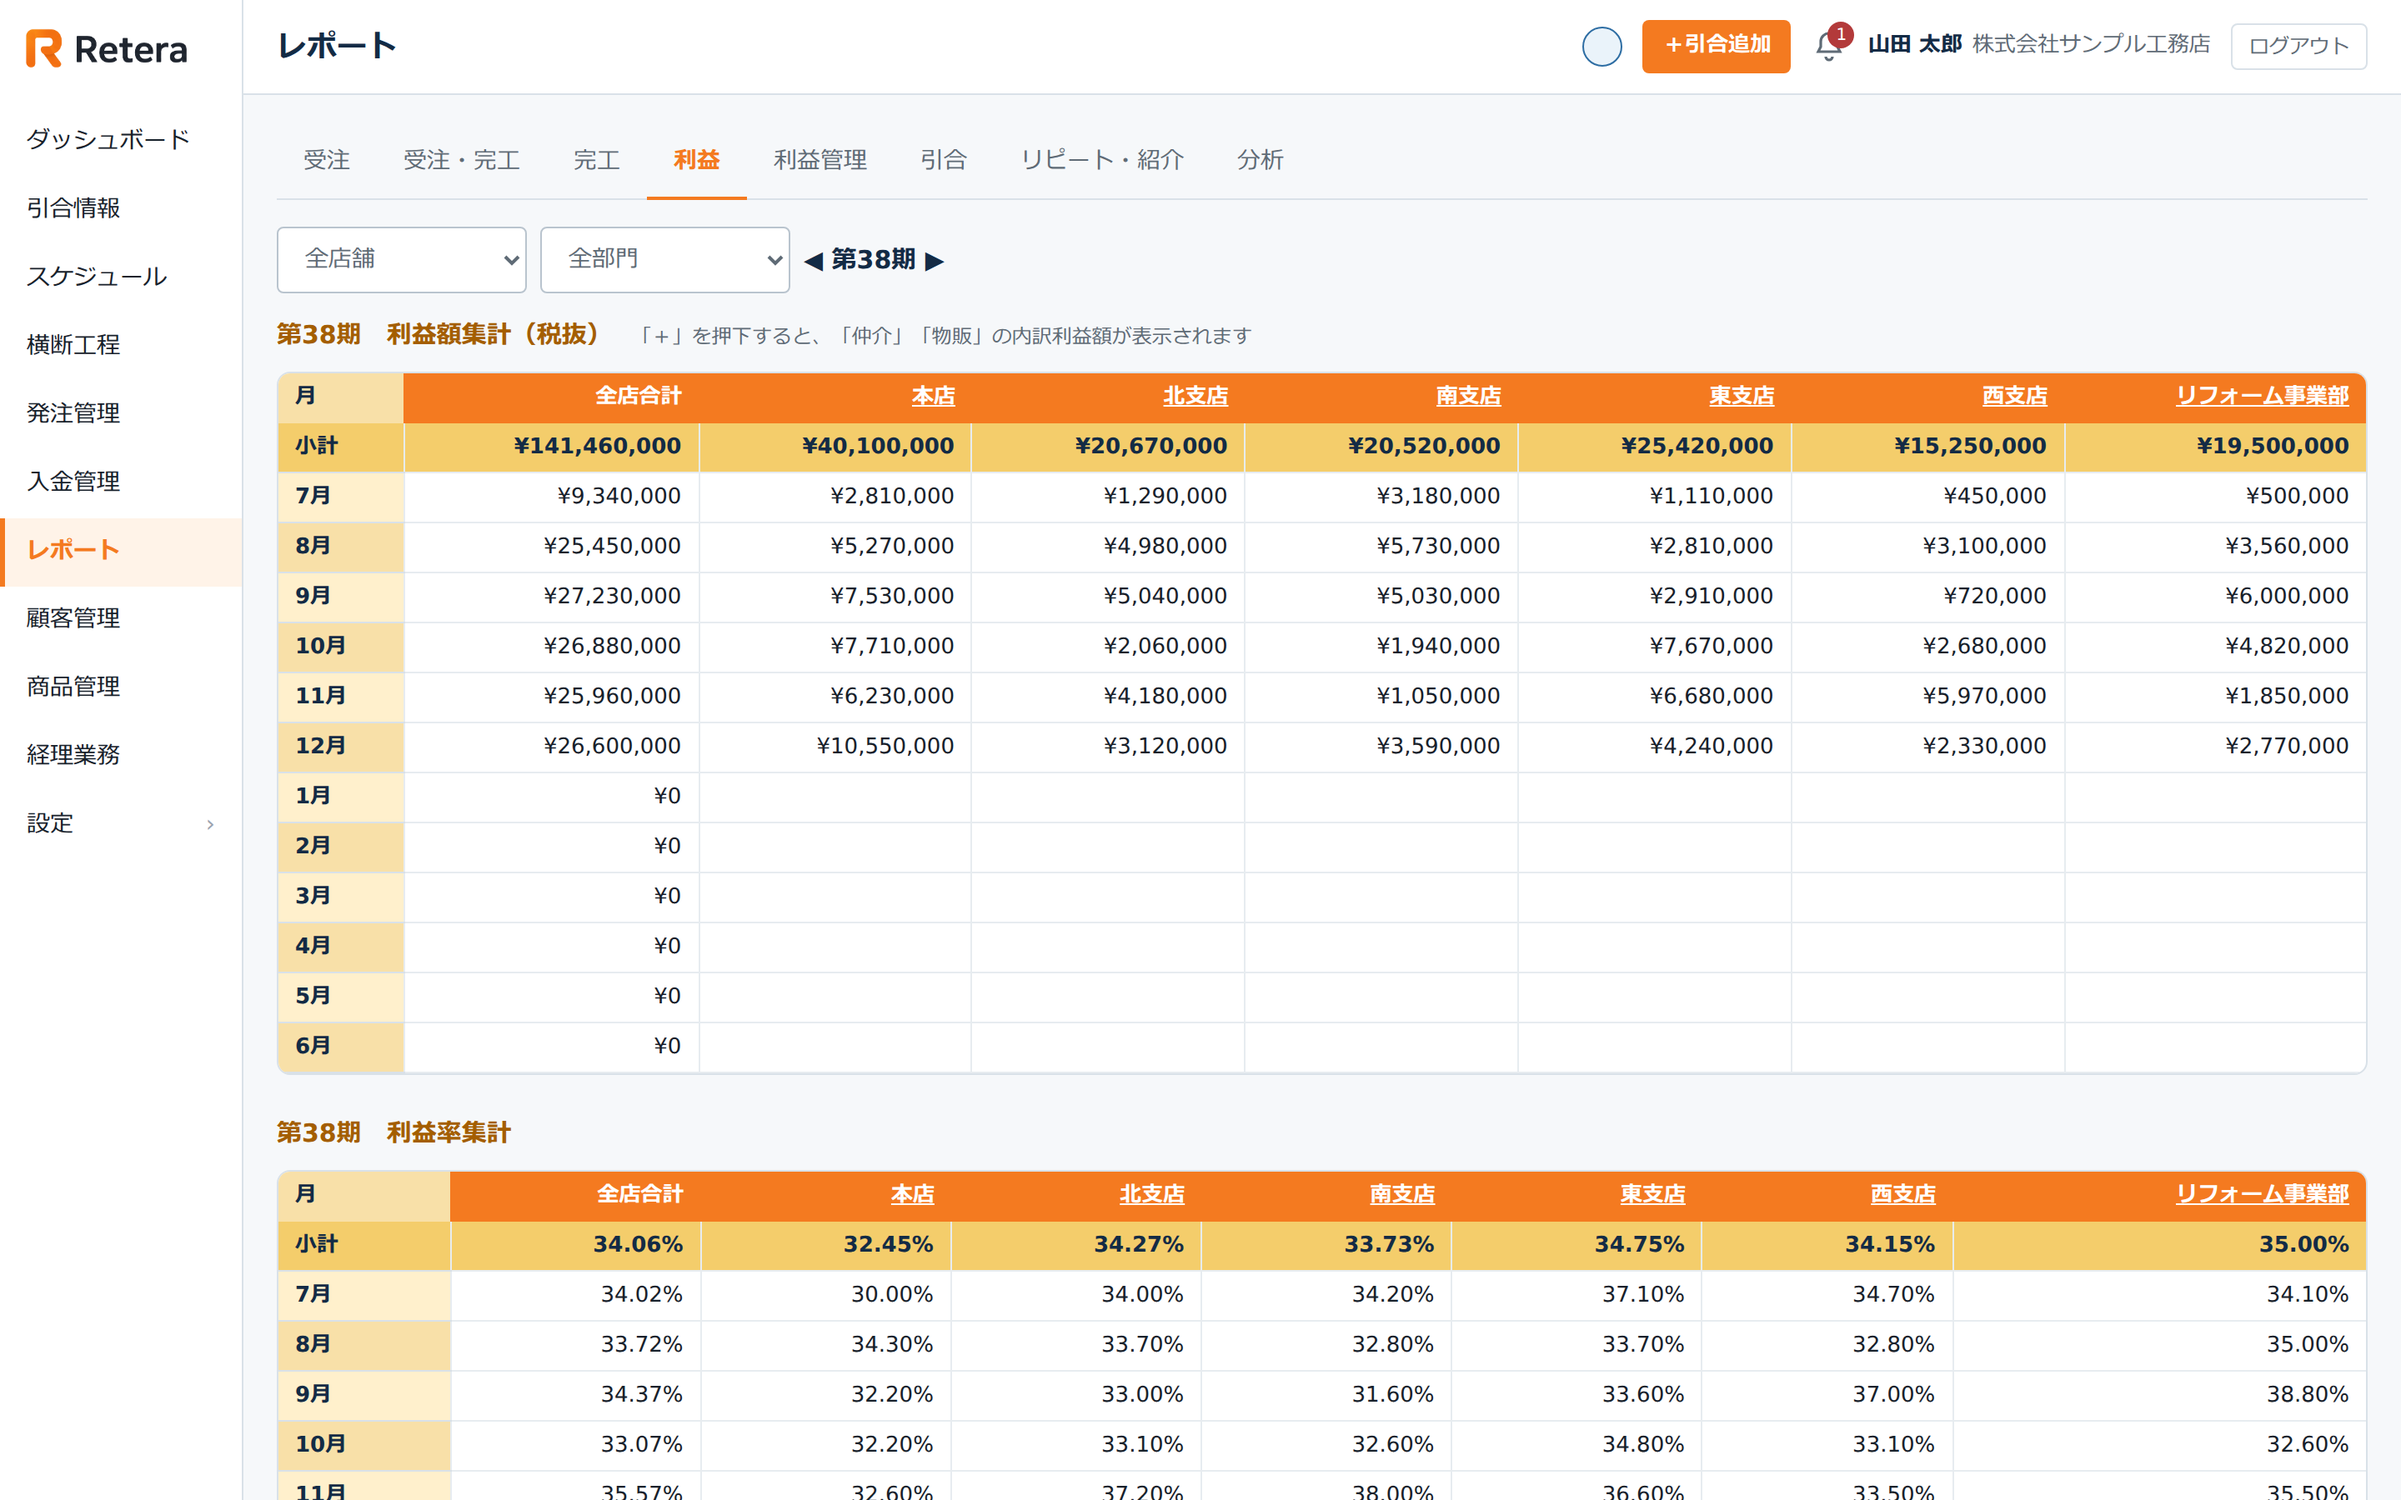
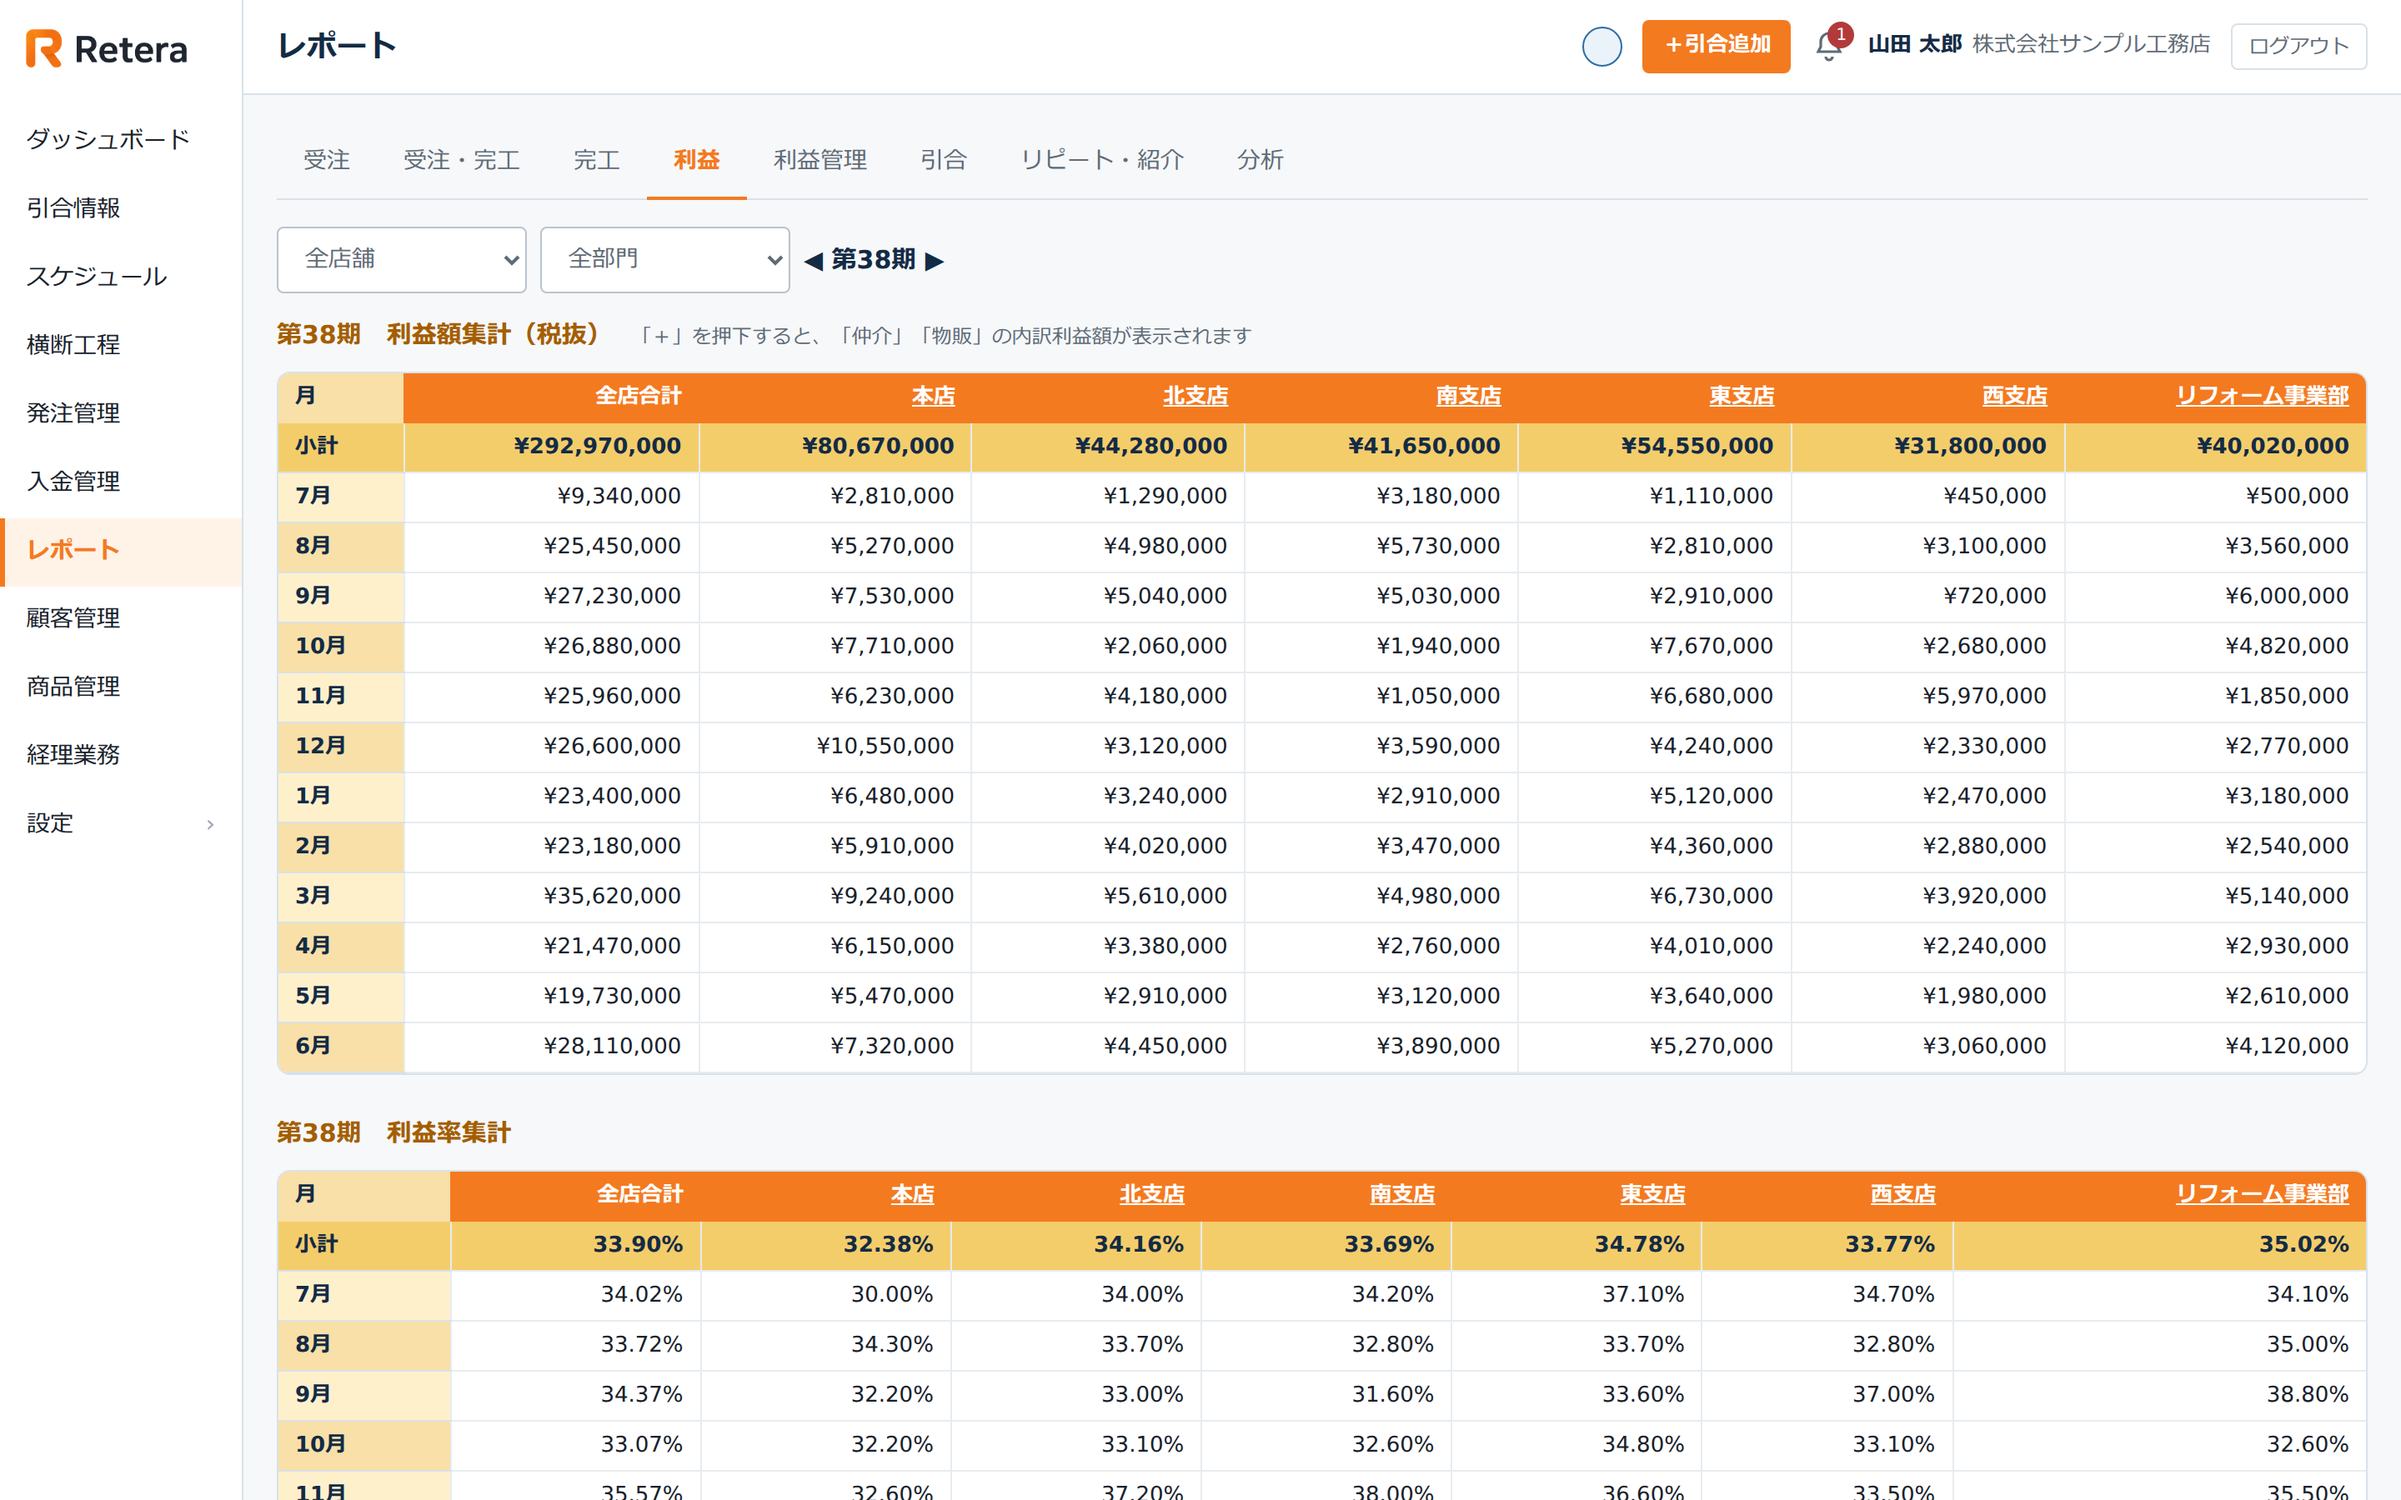
LTV・離反リスクを廃止（エンドユーザー相手のリフォーム販売では使わない概念のため）

diff --git a/style.css b/style.css
@@ -3876,45 +3876,33 @@ input:focus, select:focus, textarea:focus {
 .ana-sec > .container > .h-section {
   font-size: 44px; line-height: 1.25; max-width: 880px; margin: 0;
 }
-.ana-shots {
-  display: grid; grid-template-columns: 1fr 1fr; gap: 28px;
-  margin: 44px 0 0; align-items: start;
+/* 第41回: LTV 廃止（2026-08-14）に伴い、2枚並び（.ana-shots）から
+   レポート1枚の全幅（.rep-shot）へ組み替えた */
+.rep-shot { margin: 44px auto 0; max-width: 940px; }
+.rep-shot .ls-tag { margin-bottom: var(--space-3); }
+.rep-shot .shot-frame {
+  display: block; border-radius: var(--radius-lg); overflow: hidden;
+  border: 1px solid var(--card-border, #E8EBF0);
+  box-shadow: 0 16px 42px rgba(19,43,69,.12);
 }
-.ana-shots figure { margin: 0; }
-.ana-shots .shot-frame {
-  display: block; height: 292px; overflow: hidden;
-  border-radius: var(--radius-lg); border: 1px solid var(--card-border, #E8EBF0);
-  box-shadow: 0 14px 40px rgba(19,43,69,.12);
-}
-.ana-shots .shot-frame img {
-  display: block; width: 100%; height: 100%;
-  object-fit: cover; object-position: top center;
-}
-.ana-shots .shot-frame::after { display: none; }
-.ana-shots .shot-more { display: inline-block; margin-top: var(--space-4); }
-.ana-note { margin-top: var(--space-5); }
+.rep-shot .shot-frame img { display: block; width: 100%; height: auto; }
+.rep-shot .shot-frame::after { display: none; }
+.rep-shot .shot-note { margin-top: var(--space-3); }
 .ana-pts { margin-top: 48px; }
 
-@media (max-width: 1023px) {
-  .ana-shots { grid-template-columns: 1fr; gap: 36px; }
-}
 @media (max-width: 767px) {
   .ana-sec { padding: 72px 0 60px; }
   .ana-sec > .container > .h-section { font-size: 31px; line-height: 1.3; }
-  .ana-shots { margin: 36px calc(var(--space-6) * -1) 0; gap: 28px; }
-  .ana-shots .ls-tag, .ana-shots .shot-more { padding: 0 var(--space-6); }
+  .rep-shot { margin: 36px calc(var(--space-6) * -1) 0; max-width: none; }
+  .rep-shot .ls-tag, .rep-shot .shot-note { padding: 0 var(--space-6); }
   /* 縮小せず、読める位置でクロップ（UI は加工していない） */
-  .ana-shots .shot-frame {
-    position: relative; border-radius: 0; border-left: none; border-right: none;
+  .rep-shot .shot-frame {
+    position: relative; height: 258px; overflow: hidden;
+    border-radius: 0; border-left: none; border-right: none;
   }
-  .ana-shots .shot-frame img {
-    position: absolute; width: auto; max-width: none; height: auto; object-fit: fill;
+  .rep-shot .shot-frame img {
+    position: absolute; left: -104px; top: -140px; width: 1040px; max-width: none; height: auto;
   }
-  .ana-shots figure:nth-child(1) .shot-frame { height: 242px; }
-  .ana-shots figure:nth-child(1) .shot-frame img { width: 1040px; left: -104px; top: -112px; }
-  .ana-shots figure:nth-child(2) .shot-frame { height: 242px; }
-  .ana-shots figure:nth-child(2) .shot-frame img { width: 950px; left: -105px; top: -148px; }
-  .ana-note { padding: 0 0; }
   .ana-pts { margin-top: 36px; }
 }
 
@@ -4709,3 +4697,14 @@ picture { display: contents; }
 }
 /* AI 章の準備中表示は本文（.ai-body 720px）と同じ幅に揃える */
 .ai-prep { max-width: 720px; margin-top: var(--space-6); }
+
+/* 第41回: トップ F の項目が LTV 廃止で 4→3 になった。
+   2カラムのままだと右下が1マス空くので3カラムへ。 */
+@media (min-width: 1024px) {
+  .biz-points { grid-template-columns: repeat(3, 1fr); gap: 40px 40px; }
+}
+
+/* 第41回: §6 の項目も LTV 廃止で 4→3。右下を空けないため3カラムへ。 */
+@media (min-width: 861px) {
+  .ana-pts { grid-template-columns: repeat(3, 1fr); gap: 28px 40px; }
+}

diff --git a/features.html b/features.html
@@ -300,23 +300,13 @@
     <p class="fstage"><b>06</b><span>分析・評価</span></p>
     <h2 class="h-section">入力した数字が、そのまま経営の道具になる。</h2>
 
-    <div class="ana-shots">
-      <figure>
-        <figcaption class="ls-tag">レポート</figcaption>
-        <a class="shot-frame" href="img/screen-report.png" target="_blank" rel="noopener">
-          <picture><source srcset="img/screen-report.webp" type="image/webp"><img src="img/screen-report.png" alt="Retera のレポート画面" width="2880" height="1800" decoding="async" loading="lazy"></picture>
-        </a>
-        <a class="shot-more" href="img/screen-report.png" target="_blank" rel="noopener">画面全体を見る ↗</a>
-      </figure>
-      <figure>
-        <figcaption class="ls-tag">LTV</figcaption>
-        <a class="shot-frame" href="img/screen-ltv.png" target="_blank" rel="noopener">
-          <picture><source srcset="img/screen-ltv.webp" type="image/webp"><img src="img/screen-ltv.png" alt="Retera の顧客LTVランキング画面" width="2880" height="1600" decoding="async" loading="lazy"></picture>
-        </a>
-        <a class="shot-more" href="img/screen-ltv.png" target="_blank" rel="noopener">画面全体を見る ↗</a>
-      </figure>
-    </div>
-    <p class="shot-note ana-note">※ 画面はすべてダミーデータで表示しています。</p>
+    <figure class="rep-shot">
+      <figcaption class="ls-tag">レポート（店舗別・月別の利益額集計）</figcaption>
+      <a class="shot-frame" href="img/screen-report.png" target="_blank" rel="noopener">
+        <picture><source srcset="img/screen-report.webp" type="image/webp"><img src="img/screen-report.png" alt="Retera のレポート画面。第38期の利益額集計が、全店合計と店舗別の列で月ごとに並んでいる" width="2880" height="1800" decoding="async" loading="lazy"></picture>
+      </a>
+      <p class="shot-note">※ 画面はすべてダミーデータで表示しています。</p>
+    </figure>
 
     <ul class="lead-pts ana-pts">
       <li>
@@ -326,10 +316,6 @@
       <li>
         <h3>目標と実績</h3>
         <p>社員ごとに期の売上目標と粗利目標を決められます。前期からのコピーも可。達成率は社員別と店舗別の両方で見られます。</p>
-      </li>
-      <li>
-        <h3>顧客の生涯価値と離反リスク</h3>
-        <p>案件数と完工額から生涯価値を自動で計算し、その順に並べ替えられます。経過日数とリピートの有無を合わせて離反リスクを高・中・低で表示し、3年以上動きの無いお客様は自動的に「高」へ振れます。</p>
       </li>
       <li>
         <h3>媒体別の効果</h3>

diff --git a/index.html b/index.html
@@ -425,10 +425,6 @@
 
     <ul class="biz-points">
       <li>
-        <h3>どのお客様が効いているかが分かる</h3>
-        <p>案件数と完工額から生涯価値（LTV）を自動で計算し、その順に並べ替えられます。最後の取引からの経過日数とリピートの有無を合わせて離反リスクを判定し、<span class="emph">3年以上動きの無いお客様は自動的に「高」へ振れます。</span></p>
-      </li>
-      <li>
         <h3>目標と実績が、同じ画面にあります</h3>
         <p>社員ごとに期の売上目標と粗利目標を決められます。達成率は<span class="emph">社員別と店舗別の両方</span>で見られます。目標を立てる場所と結果を見る場所が同じなので、突き合わせる作業がありません。</p>
       </li>
